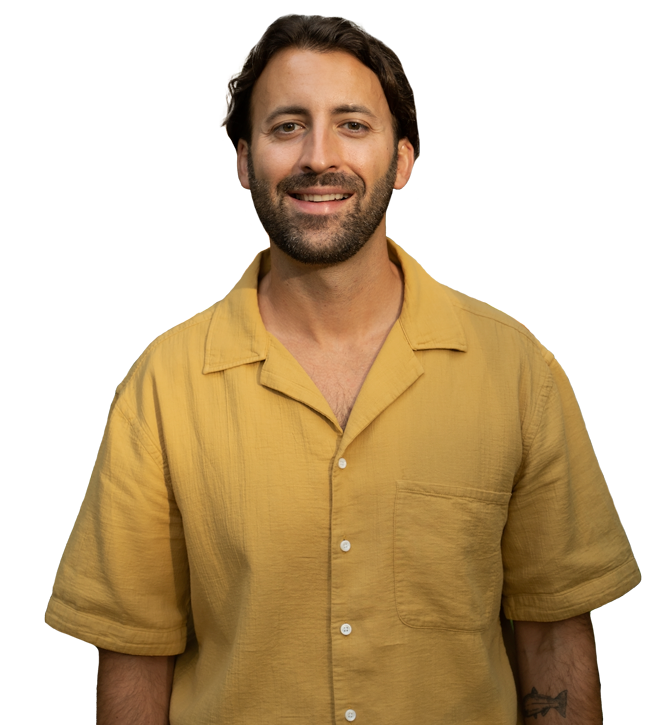
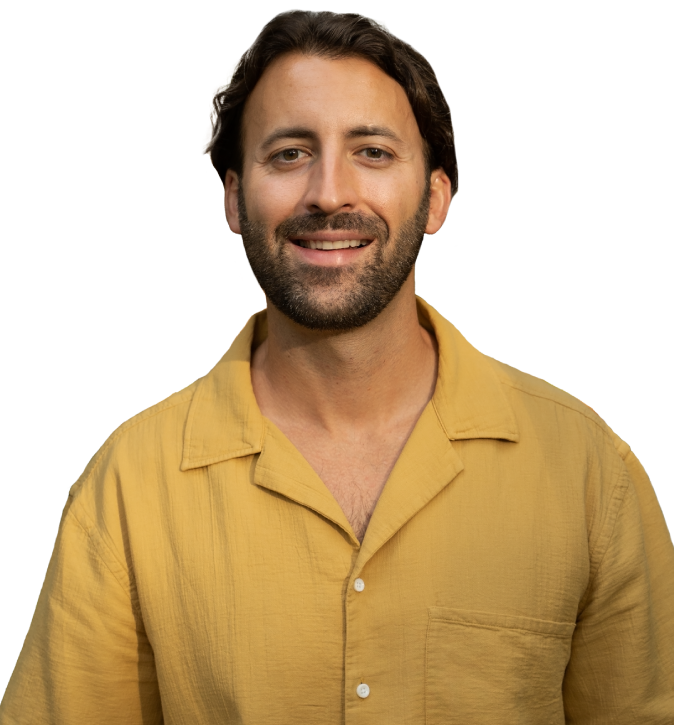
STYLE: Adjusting hero image

diff --git a/src/components/header/header.css b/src/components/header/header.css
@@ -46,7 +46,7 @@ h5:nth-of-type(2) {
 /* ========== ME ========== */
 .me {
   background: var(--color-gradient);
-  width: 22rem;
+  width: 26rem;
   height: auto;
   position: absolute;
   left: 50%;
